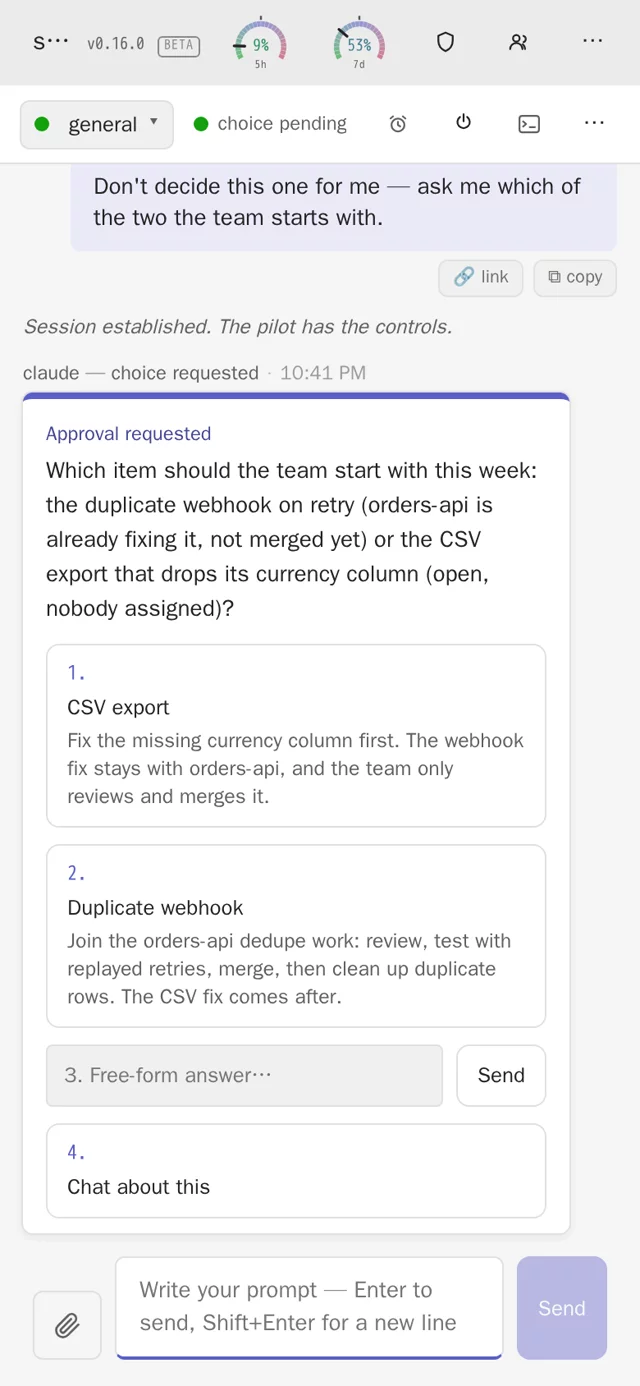
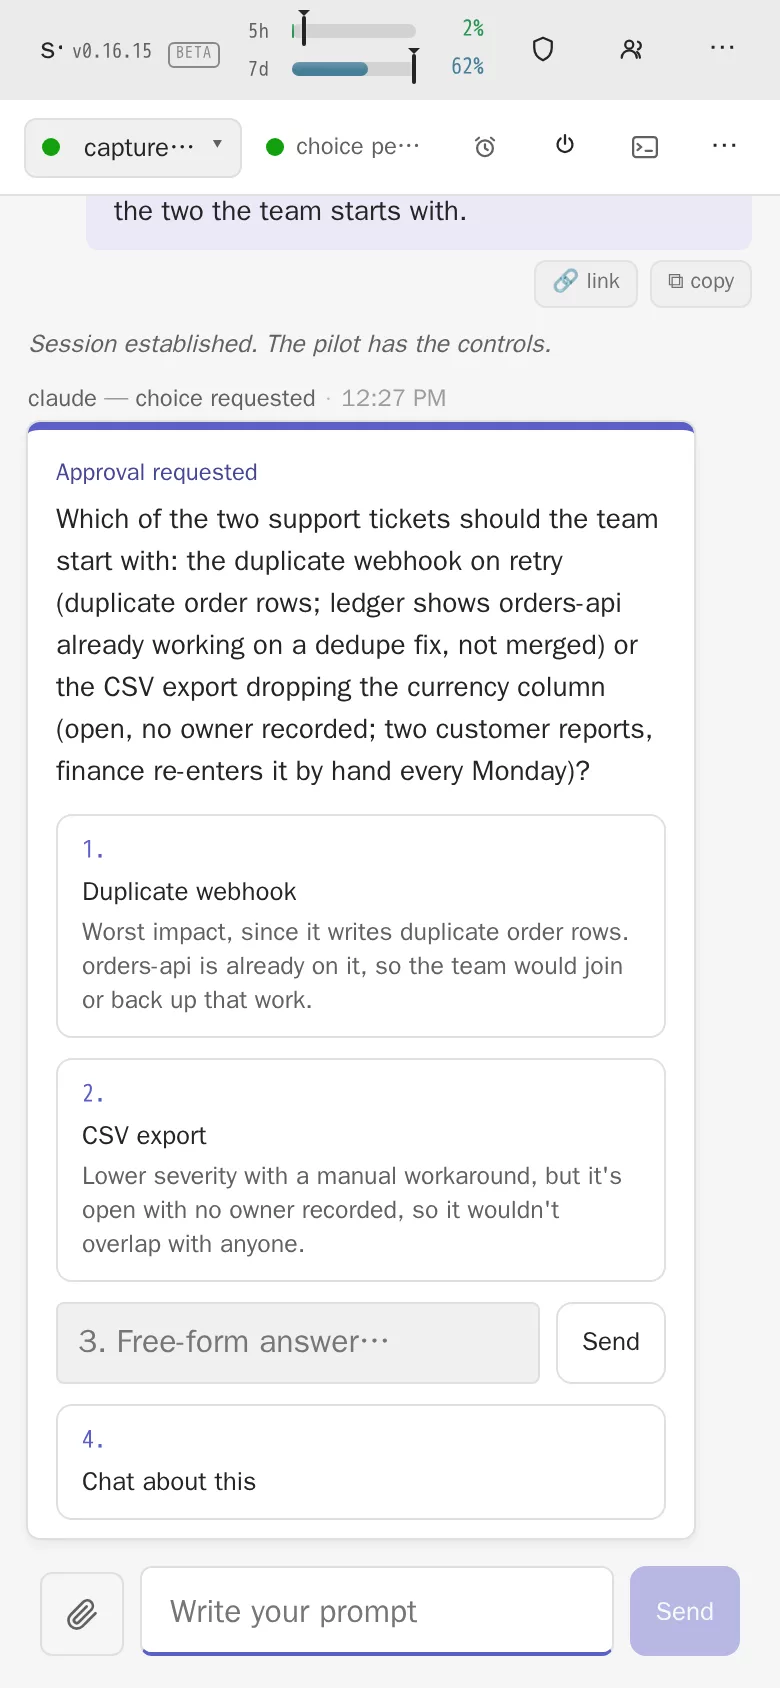
Retake the quota pictures: the dial is a bar now
shadok-ai 0.16.15 replaced the 240° speedometer with a flat bar per window,
filled to what is spent and marked where an even pace would have you. Two
pictures on the page still showed the dial, and one of them was a close crop
of it — the page was advertising a widget the product no longer has.

- frag-dials.webp → frag-quota.webp, reshot on the mirror at 0.16.15;
- cockpit-phone.webp reshot, and at 390px rather than 320: at 320 the new
  bars ride over the version badge in the cockpit header;
- the alt text of both says bars, and says what the marker means;
- .stack .dials → .stack .quota, widened 21% → 26%: the strip is three times
  as wide as it is tall, so the old width left it a sliver.

Both readings are the mirror's real usage at capture time (2% of the
five-hour window, 62% of the seven-day one). Ratios measured at 390 and
1440: every picture draws at its own.

Claude-Session: https://claude.ai/code/session_013drUQ8RrZRuBgYytQq1Mv6

diff --git a/index.html b/index.html
@@ -96,8 +96,9 @@
              alt="The agents column of the Tech group: orders-api and flaky-tests, each with a round avatar, a green
                   dot for a live session, the share of its context window used, and an alarm clock on the one that
                   runs on a schedule.">
-        <img class="dials" src="/shots/frag-dials.webp" width="292" height="132" loading="lazy" decoding="async"
-             alt="The two quota dials in the cockpit header: 9% of the five-hour window, 53% of the seven-day one.">
+        <img class="quota" src="/shots/frag-quota.webp" width="368" height="114" loading="lazy" decoding="async"
+             alt="The two quota bars in the cockpit header: 2% of the five-hour window and 62% of the seven-day one,
+                  each with a marker showing where an even pace would have you by now.">
         <img class="cron" src="/shots/frag-cron.webp" width="760" height="154" loading="lazy" decoding="async"
              alt="A scheduled prompt on an agent: daily at 09:00, with a guard, reading “Triage whatever is new in
                   the inbox: one line per ticket, worst first, and say which one you would take.”">
@@ -287,9 +288,9 @@
           open.</p>
         </div>
         <figure class="shot phone">
-          <img src="/shots/cockpit-phone.webp" width="640" height="1386" loading="lazy" decoding="async"
+          <img src="/shots/cockpit-phone.webp" width="780" height="1688" loading="lazy" decoding="async"
                alt="The cockpit on a phone: the agent's question with its two options filling the screen, the quota
-                    dials still visible at the top.">
+                    bars still visible at the top.">
         </figure>
       </div>
     </div>

diff --git a/style.css b/style.css
@@ -172,12 +172,14 @@ h1 em { font-style: normal; color: var(--ink-3); }
 }
 /* The other instruments of the same panel, pinned around the card. They are
    the parts a visitor would recognise with no page around them: the quota
-   dials, and a prompt that runs on a timer with a guard in front of it. */
-.stack .dials { position: absolute; top: -12%; left: 4%; width: 21%; z-index: 4; }
+   bars, and a prompt that runs on a timer with a guard in front of it.
+   Wider than the dials it replaced: the strip is three times as wide as it is
+   tall, so the same 21% left it a sliver. */
+.stack .quota { position: absolute; top: -11%; left: 4%; width: 26%; z-index: 4; }
 .stack .cron { position: absolute; right: -3%; bottom: -34%; width: 60%; z-index: 1; }
 @media (max-width: 960px) {
   .stack .list { left: auto; right: 0; bottom: -7%; width: 40%; }
-  .stack .dials, .stack .cron { display: none; }
+  .stack .quota, .stack .cron { display: none; }
 }
 @media (max-width: 760px) { .stack .list { display: none; } }
 
